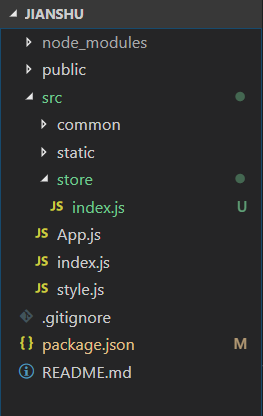
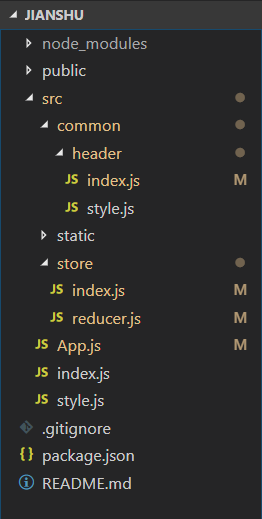
react 学习

diff --git a/JavaScript-library/React/code/jianshu/src/common/header/index.js b/JavaScript-library/React/code/jianshu/src/common/header/index.js
@@ -1,4 +1,5 @@
 import React, { Component } from 'react';
+import { connect } from 'react-redux';
 import { CSSTransition } from 'react-transition-group';
 import {
     HeaderWrapper, Logo, Nav, NavItem, NavSearch, Addition, Button, SearchWrapper
@@ -7,9 +8,6 @@ import {
 class Header extends Component {
     constructor(props) {
         super(props);
-        this.state = {
-            focused: false
-        }
         this.handleInputFocus = this.handleInputFocus.bind(this);
         this.handleInputBlur = this.handleInputBlur.bind(this);
     }
@@ -35,17 +33,17 @@ class Header extends Component {
                     <NavItem className="right">Aa</NavItem>
                     <SearchWrapper>
                         <CSSTransition
-                            in={this.state.focused}
+                            in={this.props.focused}
                             timeout={500}
                             classNames="slide"
                         >
                         <NavSearch
-                            className={this.state.focused ? 'focused' : ''} 
-                            onFocus={this.handleInputFocus}
-                            onBlur={this.handleInputBlur}
+                            className={this.props.focused ? 'focused' : ''} 
+                            onFocus={this.props.handleInputFocus}
+                            onBlur={this.props.handleInputBlur}
                         ></NavSearch>
                         </CSSTransition>
-                        <div className={this.state.focused ? 'focused icon-search' : 'icon-search'}>
+                        <div className={this.props.focused ? 'focused icon-search' : 'icon-search'}>
                             <svg className="icon" aria-hidden="true">
                                 <use xlinkHref="#icon-icon_search"></use>
                             </svg>
@@ -78,4 +76,18 @@ class Header extends Component {
     }
 }
 
-export default Header;
+const mapStateToProps = (state) => {
+    return {
+        focused: state.focused
+    }
+}
+
+const mapDispathToProps = (dispatch) => {
+    return {
+        handleInputFocus() {
+            console.log("123");
+        }
+    }
+}
+
+export default connect(mapStateToProps, mapDispathToProps)(Header);

diff --git a/JavaScript-library/React/code/jianshu/src/App.js b/JavaScript-library/React/code/jianshu/src/App.js
@@ -1,10 +1,14 @@
 import React, { Component } from 'react';
+import { Provider } from 'react-redux';
 import Header from './common/header';
+import store from './store';
 
 class App extends Component {
   render() {
     return (
-      <Header />
+      <Provider store={store}>
+        <Header />
+      </Provider>
     );
   }
 }

diff --git a/JavaScript-library/React/code/jianshu/src/store/index.js b/JavaScript-library/React/code/jianshu/src/store/index.js
@@ -1,6 +1,6 @@
 import { createStore } from 'redux';
 import reducer from './reducer';
 
-const store = createStore();
+const store = createStore(reducer);
 
 export default store;

diff --git a/JavaScript-library/React/code/jianshu/src/store/reducer.js b/JavaScript-library/React/code/jianshu/src/store/reducer.js
@@ -1,4 +1,6 @@
-const defaultState = {};
+const defaultState = {
+    focused: false
+};
 
 export default (state = defaultState, action) => {
     return state;

diff --git a/JavaScript-library/React/jianshu.chapter3.md b/JavaScript-library/React/jianshu.chapter3.md
@@ -13,9 +13,146 @@
 2. 安装 `react-redux`：`npm i react-redux -D`
 3. 创建 `store` 文件夹
 4. 创建 `index.js` 文件
-5. 此时目录如下
+5. 此时目录如下：
 
 ![图](../../public-repertory/img/js-react-jianshu-chapter3-1.png)
+
+6. 修改下面的文件：
+> App.js
+```
+import React, { Component } from 'react';
+import { Provider } from 'react-redux';
+import Header from './common/header';
+import store from './store';
+
+class App extends Component {
+  render() {
+    return (
+      <Provider store={store}>
+        <Header />
+      </Provider>
+    );
+  }
+}
+
+export default App;
+```
+
+> store/index.js
+```
+import { createStore } from 'redux';
+import reducer from './reducer';
+
+const store = createStore(reducer);
+
+export default store;
+```
+
+> store/reducer.js
+```
+const defaultState = {
+    focused: false
+};
+
+export default (state = defaultState, action) => {
+    return state;
+}
+```
+
+> common/header/index.js
+```
+import React, { Component } from 'react';
+import { connect } from 'react-redux';
+import { CSSTransition } from 'react-transition-group';
+import {
+    HeaderWrapper, Logo, Nav, NavItem, NavSearch, Addition, Button, SearchWrapper
+} from './style'
+
+class Header extends Component {
+    constructor(props) {
+        super(props);
+        this.handleInputFocus = this.handleInputFocus.bind(this);
+        this.handleInputBlur = this.handleInputBlur.bind(this);
+    }
+
+    render() {
+        return (
+            <HeaderWrapper>
+                <Logo/>
+                <Nav>
+                    <NavItem className="left active">
+                        <svg className="icon" aria-hidden="true">
+                            <use xlinkHref="#icon-shouye"></use>
+                        </svg>
+                        <span> 首页</span>
+                    </NavItem>
+                    <NavItem className="left">
+                        <svg className="icon" aria-hidden="true">
+                            <use xlinkHref="#icon-xiazaiAPP"></use>
+                        </svg>
+                        <span> 下载App</span>
+                    </NavItem>
+                    <NavItem className="right">登录</NavItem>
+                    <NavItem className="right">Aa</NavItem>
+                    <SearchWrapper>
+                        <CSSTransition
+                            in={this.props.focused}
+                            timeout={500}
+                            classNames="slide"
+                        >
+                        <NavSearch
+                            className={this.props.focused ? 'focused' : ''} 
+                            onFocus={this.handleInputFocus}
+                            onBlur={this.handleInputBlur}
+                        ></NavSearch>
+                        </CSSTransition>
+                        <div className={this.props.focused ? 'focused icon-search' : 'icon-search'}>
+                            <svg className="icon" aria-hidden="true">
+                                <use xlinkHref="#icon-icon_search"></use>
+                            </svg>
+                        </div>
+                    </SearchWrapper>
+                </Nav>
+                <Addition>
+                    <Button className="writting">
+                        <svg className="icon" aria-hidden="true">
+                            <use xlinkHref="#icon-yumao"></use>
+                        </svg>
+                        <span> 写文章</span>
+                    </Button>
+                    <Button className="reg">注册</Button>
+                </Addition>
+            </HeaderWrapper>
+        )
+    }
+
+    handleInputFocus() {
+        this.setState({
+            focused: true
+        })
+    }
+
+    handleInputBlur() {
+        this.setState({
+            focused: false
+        })
+    }
+}
+
+const mapStateToProps = (state) => {
+    return {
+        focused: state.focused
+    }
+}
+
+const mapDispathToProps = (dispatch) => {
+    return {
+
+    }
+}
+
+export default connect(mapStateToProps, mapDispathToProps)(Header);
+```
 
 <br>
 
